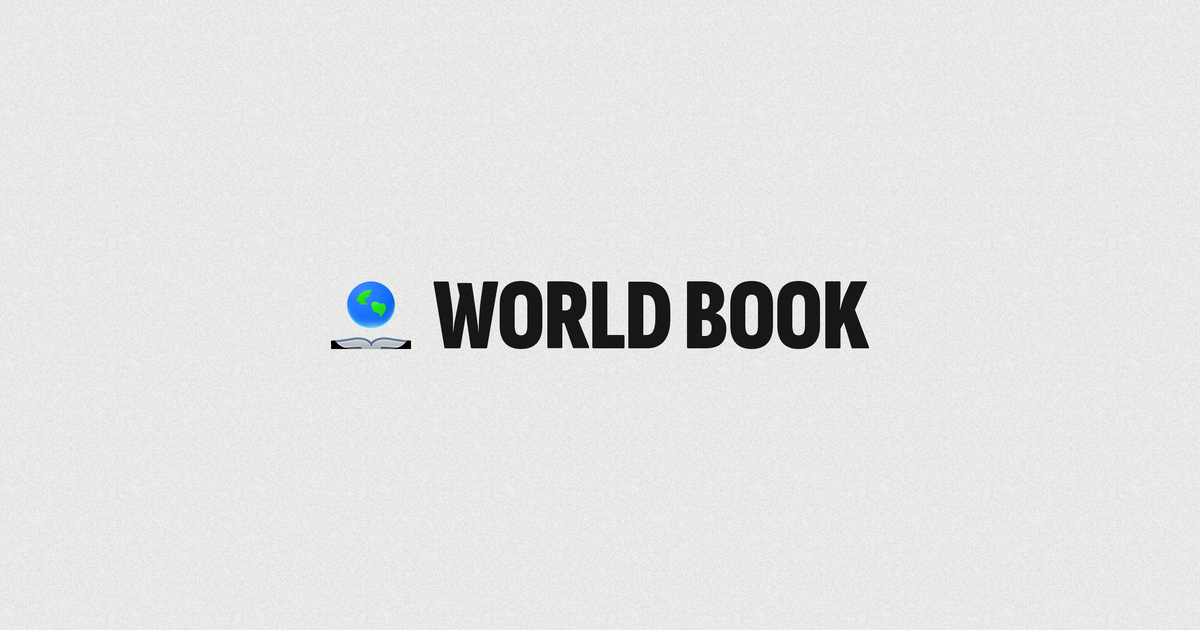
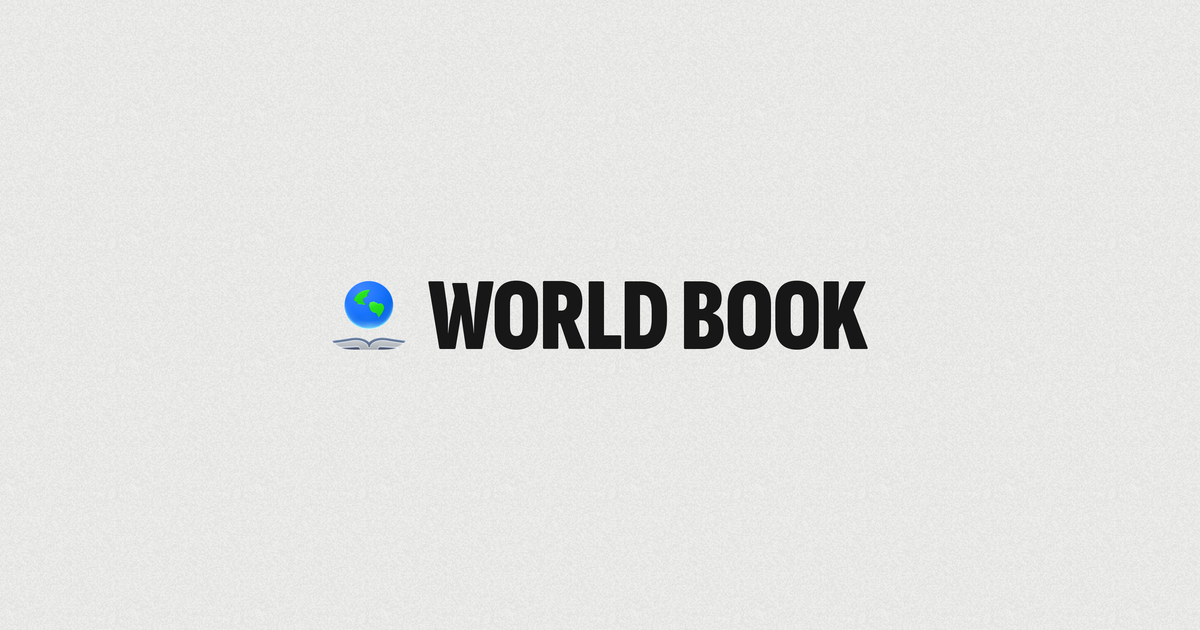
Fix World Book OG transparency and add local recording mode

Changed region(s): [[0.2775, 0.4222, 0.7092, 0.573]]

diff --git a/scripts/open-world-book-recording.py b/scripts/open-world-book-recording.py
@@ -1,0 +1,34 @@
+"""Open an isolated Chrome recording window with audible autoplay enabled."""
+import argparse
+from pathlib import Path
+import subprocess
+import tempfile
+from urllib.parse import parse_qsl, urlencode, urlsplit, urlunsplit
+
+
+def main():
+    parser = argparse.ArgumentParser(description=__doc__)
+    parser.add_argument('--url', default='http://127.0.0.1:4330/world-book/')
+    parser.add_argument('--chrome', type=Path, default=Path('/Applications/Google Chrome.app/Contents/MacOS/Google Chrome'))
+    args = parser.parse_args()
+    if not args.chrome.is_file():
+        parser.error('Chrome was not found. Specify its executable with --chrome.')
+    target = urlsplit(args.url)
+    if target.scheme not in ('http', 'https') or target.hostname not in ('localhost', '127.0.0.1', '::1'):
+        parser.error('--url must point to a local Astro dev server (localhost, 127.0.0.1 or ::1).')
+    query = dict(parse_qsl(target.query))
+    query['record'] = '1'
+    url = urlunsplit(target._replace(query=urlencode(query)))
+    with tempfile.TemporaryDirectory(prefix='world-book-recording-') as profile:
+        print(f'Recording window: {url}', flush=True)
+        print('Audible autoplay enabled for this temporary Chrome session. Close the window after recording.', flush=True)
+        subprocess.run([
+            str(args.chrome), f'--user-data-dir={profile}',
+            '--no-first-run', '--no-default-browser-check',
+            '--autoplay-policy=no-user-gesture-required',
+            '--window-size=1440,1000', f'--app={url}',
+        ], stdout=subprocess.DEVNULL, stderr=subprocess.DEVNULL, check=True)
+
+
+if __name__ == '__main__':
+    main()

diff --git a/scripts/render-world-book-opengraph.py b/scripts/render-world-book-opengraph.py
@@ -8,7 +8,7 @@ from xml.etree import ElementTree as ET
 
 from fontTools.ttLib import TTFont
 from fontTools.varLib.instancer import instantiateVariableFont
-from PIL import Image, ImageCms, ImageDraw, ImageFont
+from PIL import Image, ImageChops, ImageCms, ImageDraw, ImageFont
 
 SITE = Path(__file__).resolve().parents[1]
 ASSETS = SITE / 'src/assets'
@@ -57,6 +57,7 @@ def render_symbol(temporary):
     mask_png = subprocess.check_output(['rsvg-convert'], input=ET.tostring(mask_svg))
     mask = Image.open(BytesIO(mask_png)).getchannel('A')
     icon.resize((256, 256), Image.Resampling.LANCZOS).save(ASSETS / 'img/world-book-icon.png', optimize=True)
+    mask = ImageChops.multiply(mask, icon.getchannel('A'))
     icon.putalpha(mask)
     return icon.crop(mask.getbbox())
 

diff --git a/docs/WORLD_BOOK_MEDIA.md b/docs/WORLD_BOOK_MEDIA.md
@@ -197,7 +197,9 @@ The unchanged original `AppIcon.icon` is archived under `scripts/assets/world-bo
 `scripts/render-world-book-opengraph.py` uses Icon Composer's Default rendering,
 the original globe/book silhouette, and Sofia Sans Extra Condensed at weight 900.
 It excludes decorative stars/light spill from the alpha mask without changing
-the renderer's symbol colors or making the globe transparent. It writes the full
+the renderer's symbol colors or making the globe transparent. The silhouette mask
+is intersected with Icon Composer's alpha so the book's clipped outer edges stay
+transparent instead of exposing black pixels. It writes the full
 app icon, extracted symbol, and 1200 × 630 Open Graph image. The centered symbol
 and wordmark fit within the 630 × 630 safe square. Paper and noise match
 `docs/OPEN_GRAPH.md`. The square proof is `/tmp/world-book-opengraph-square.png`.
@@ -368,3 +370,69 @@ was removed after the user cancelled it, and normal entry is checked separately.
 The generated/native globe's differing geography/style during the brief reveal
 remains optional polish, accepted for this local creative preview. Frame and
 local Chromium checks do not prove every browser/GPU or continuous-motion quality.
+
+## Recording without a mouse
+
+Recording mode is available only in `astro dev` on `localhost`, `127.0.0.1` or
+`[::1]`. Production builds and `astro preview` ignore `record=1` and keep ordinary
+playback, controls and cursor behavior.
+
+Open `/world-book/?record=1` on that local dev server. After the wordmark loader finishes, the selected
+preview automatically starts from the beginning with sound. Astro's development
+toolbar, the page cursor and native video controls are hidden only on this URL.
+No Space shortcut is bound. Refresh the page for another take; Escape pauses.
+The movie loops automatically, including in recording mode.
+Keep the page focused and the preview in view; hidden/offscreen pauses remain.
+For mobile recording, position the preview before capturing it. The original
+phone/tablet movie and aspect ratio remain unchanged.
+
+The browser must permit autoplay with sound. This query does not bypass browser
+media permissions and does not silently fall back to muted recording. If audible
+autoplay is blocked, allow it for this site in the recording browser and reload;
+Synthetic JavaScript events do not grant that permission. Recording explicitly preloads
+only the selected movie even with SaveData/reduced-motion enabled. Ordinary URLs
+keep muted autoplay, native controls, looping and their accessibility/data
+preferences. Capturing system audio remains the recorder's job.
+
+The earlier recording version waited for Space; the user subsequently requested
+automatic entry playback. Its keyboard-triggered QA is historical. Current checks
+cover audible recording autoplay when permitted, ordinary muted playback and the
+development toolbar being hidden only in recording mode.
+
+For a recording browser that needs no interaction or persistent settings change:
+
+```sh
+python3 scripts/open-world-book-recording.py
+```
+
+This macOS helper starts installed Google Chrome in a separate temporary profile,
+using Chrome's documented `--autoplay-policy=no-user-gesture-required` flag and an
+app window without its address bar. It opens the local recording URL directly.
+Close/quit this temporary Chrome session after recording; the helper removes its
+profile when Chrome exits. The normal Chrome profile/settings are untouched.
+The local Astro dev server must already be running (default port 4330). An
+alternate loopback URL can be given with `--url`; the helper adds `record=1` and
+rejects remote hosts. Use the recorder's start delay and capture
+system audio. The in-app browser was observed to block unmuted entry playback;
+that browser's restriction cannot be overridden by this page's query string.
+
+Current verification: build passes; allowed recording entry starts unmuted without
+input, hides the real Astro dev-toolbar, and keeps ordinary URLs unchanged.
+Headless Chromium did not reproduce the in-app browser's autoplay rejection even
+with restrictive flags, so the rejection branch is checked with an explicit
+NotAllowedError stub instead; the actual in-app blocked state is observed through
+CUA. This distinguishes policy observation from deterministic error-path testing.
+A full installed, headful Chrome helper run independently confirms unmuted playback
+without input and hidden controls, then Browser.close/Chrome exit confirms the
+temporary profile is deleted. The optional remote-debugging transport was added by
+a test-only executable wrapper, not the production helper. The focused Astra
+review found no design blocker; its QA/lifecycle gaps are resolved by these checks.
+Records: `/tmp/lazyapps-world-book-record-auto-20261007/` and the corresponding
+`/tmp/lazyapps-world-book-record-auto-qa-20261007.*` files. Quit the temporary Chrome
+session if closing its app window leaves it running; cleanup waits for process exit.
+
+Local-only verification: the build passes; browser checks confirm local dev
+recording enables audible autoplay and hides the toolbar, ordinary dev URLs keep
+normal playback, and the production build served by `astro preview` ignores
+`record=1`. Space neither starts nor restarts playback. The helper rejects remote
+URLs. Records: `/tmp/lazyapps-world-book-record-dev-only-*-20261007.*`.
